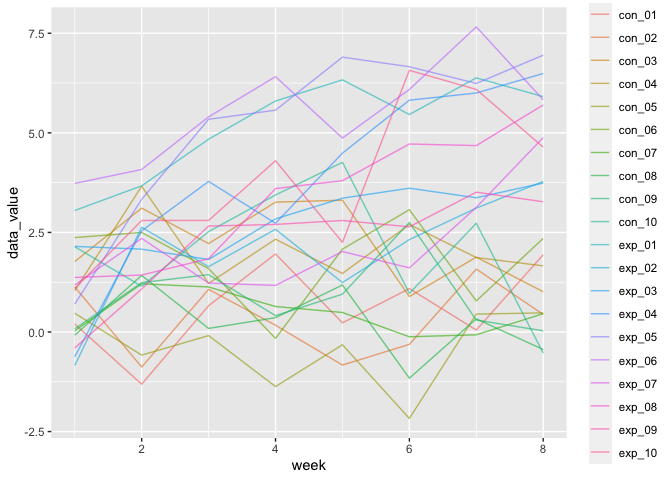
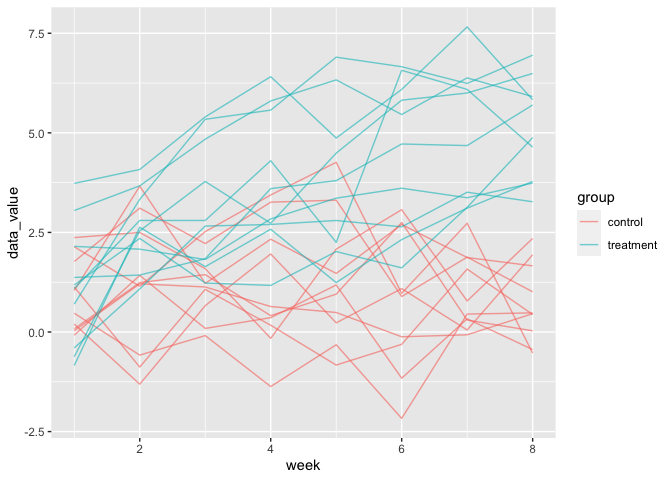
polished problem 2

diff --git a/p8105_hw5_lzs2109.md b/p8105_hw5_lzs2109.md
@@ -143,16 +143,28 @@ hw5_df =
   mutate(filenames = str_remove(filenames, ".csv$")) %>% 
   rename(treatment = filenames) %>% 
   unnest() %>% 
-  select(-location) %>% 
   pivot_longer(week_1:week_8, 
                names_to = "week", 
                names_prefix = "week_", 
                values_to = "data_value") %>% 
-  mutate(week = as.numeric(week))
+  mutate(week = as.numeric(week),
+         group = ifelse(str_detect(treatment, "^con"), "control", "treatment"),
+         subject_id = str_remove(treatment, "^con_"),
+         subject_id = str_remove(subject_id, "^exp_")) %>% 
+  select(treatment, subject_id, group, week, data_value)
+  
 
 hw5_df %>% 
-  ggplot(aes(x = week, y = data_value, color = treatment)) +
-  geom_line(alpha = 0.6)
+  ggplot(aes(x = week, y = data_value, color = group)) +
+  geom_line(aes(group = treatment), alpha = 0.6)
 ```
 
 ![](p8105_hw5_lzs2109_files/figure-gfm/unnamed-chunk-6-1.png)<!-- -->
+
+Based on the spaghetti plot, we can see that by the end of week 8, all
+subjects in the control arm have a lower data value than all subjects in
+the treatment group. If the treatment was meant to increase the data
+value, it appears to be effective in all subjects, including those that
+had lower starting data values than subjects in the control group.
+
+## Problem 3
